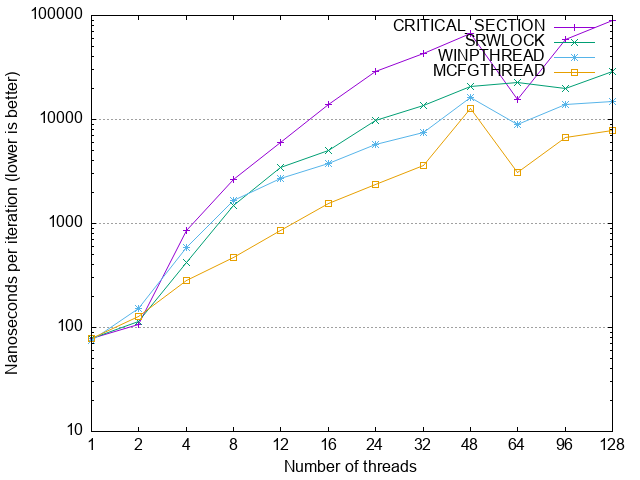
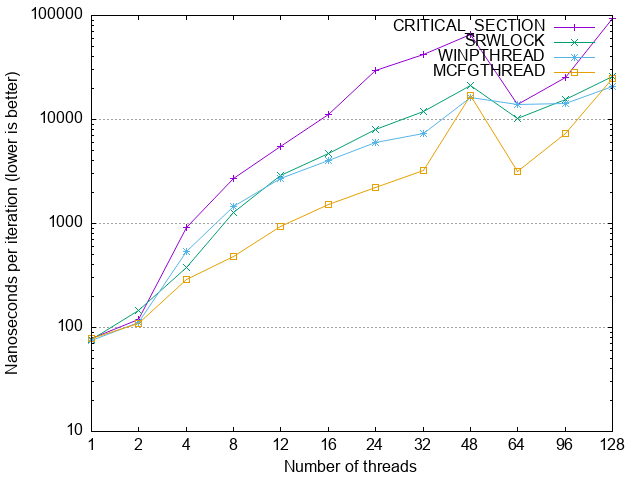
doc: Update benchmark result on i9-14900K [no ci]

diff --git a/README.md b/README.md
@@ -26,7 +26,7 @@ initialization of local static objects, and by **libstdc++** to provide C++11 th
 ## Benchmark Results
 
 This is the result of [a benchmark program](doc/benchmark_mutex.c) on **Windows 11 26H2** (build
-26300.9818) on an **Intel i9-14900K** desktop processor (8 P-cores + 16 E-cores, 32 threads):
+26300.9974) on an **Intel i9-14900K** desktop processor (8 P-cores + 16 E-cores, 32 threads):
 
 ![benchmark_result_win11_26300_i9_14900k](doc/benchmark_result_win11_26300_i9_14900k.png)
 
